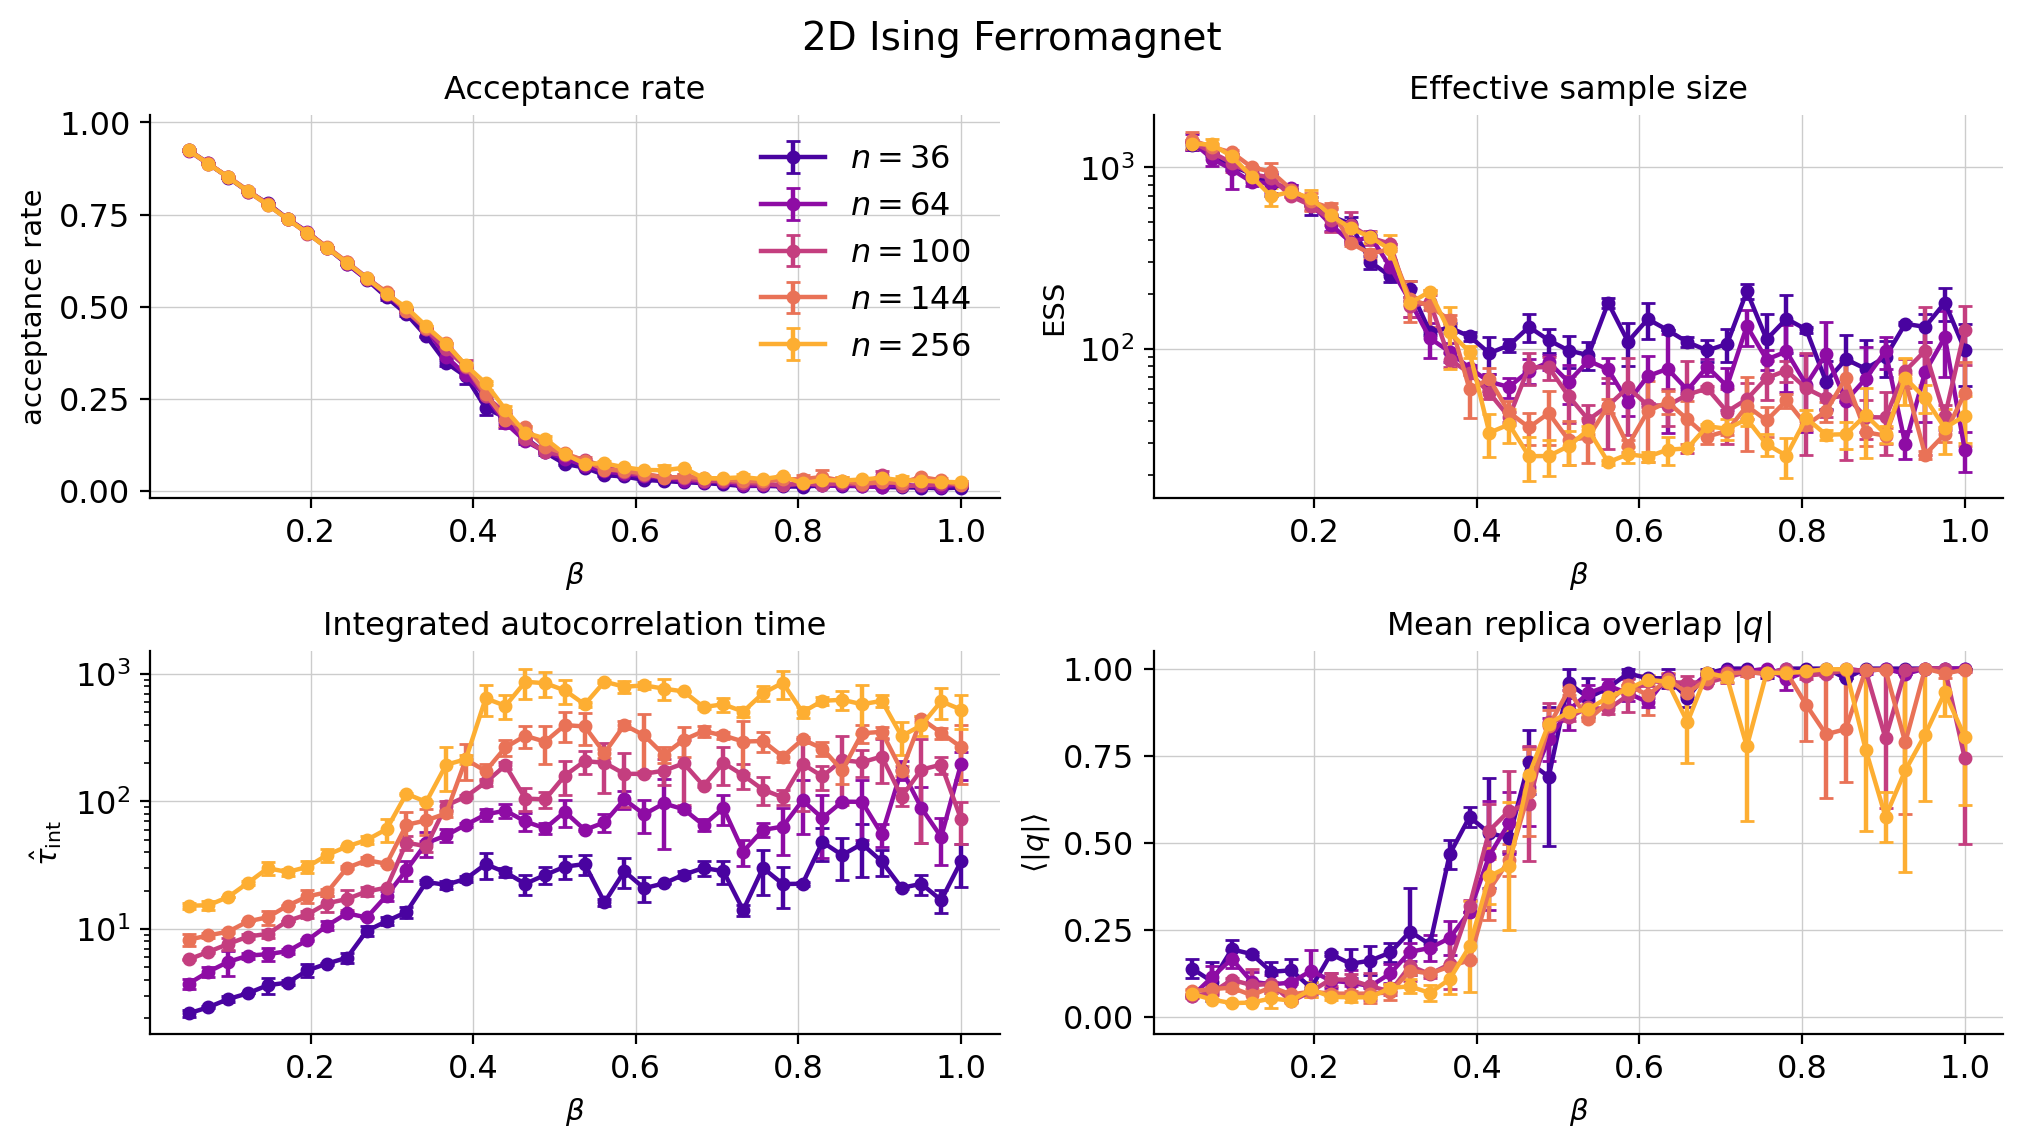
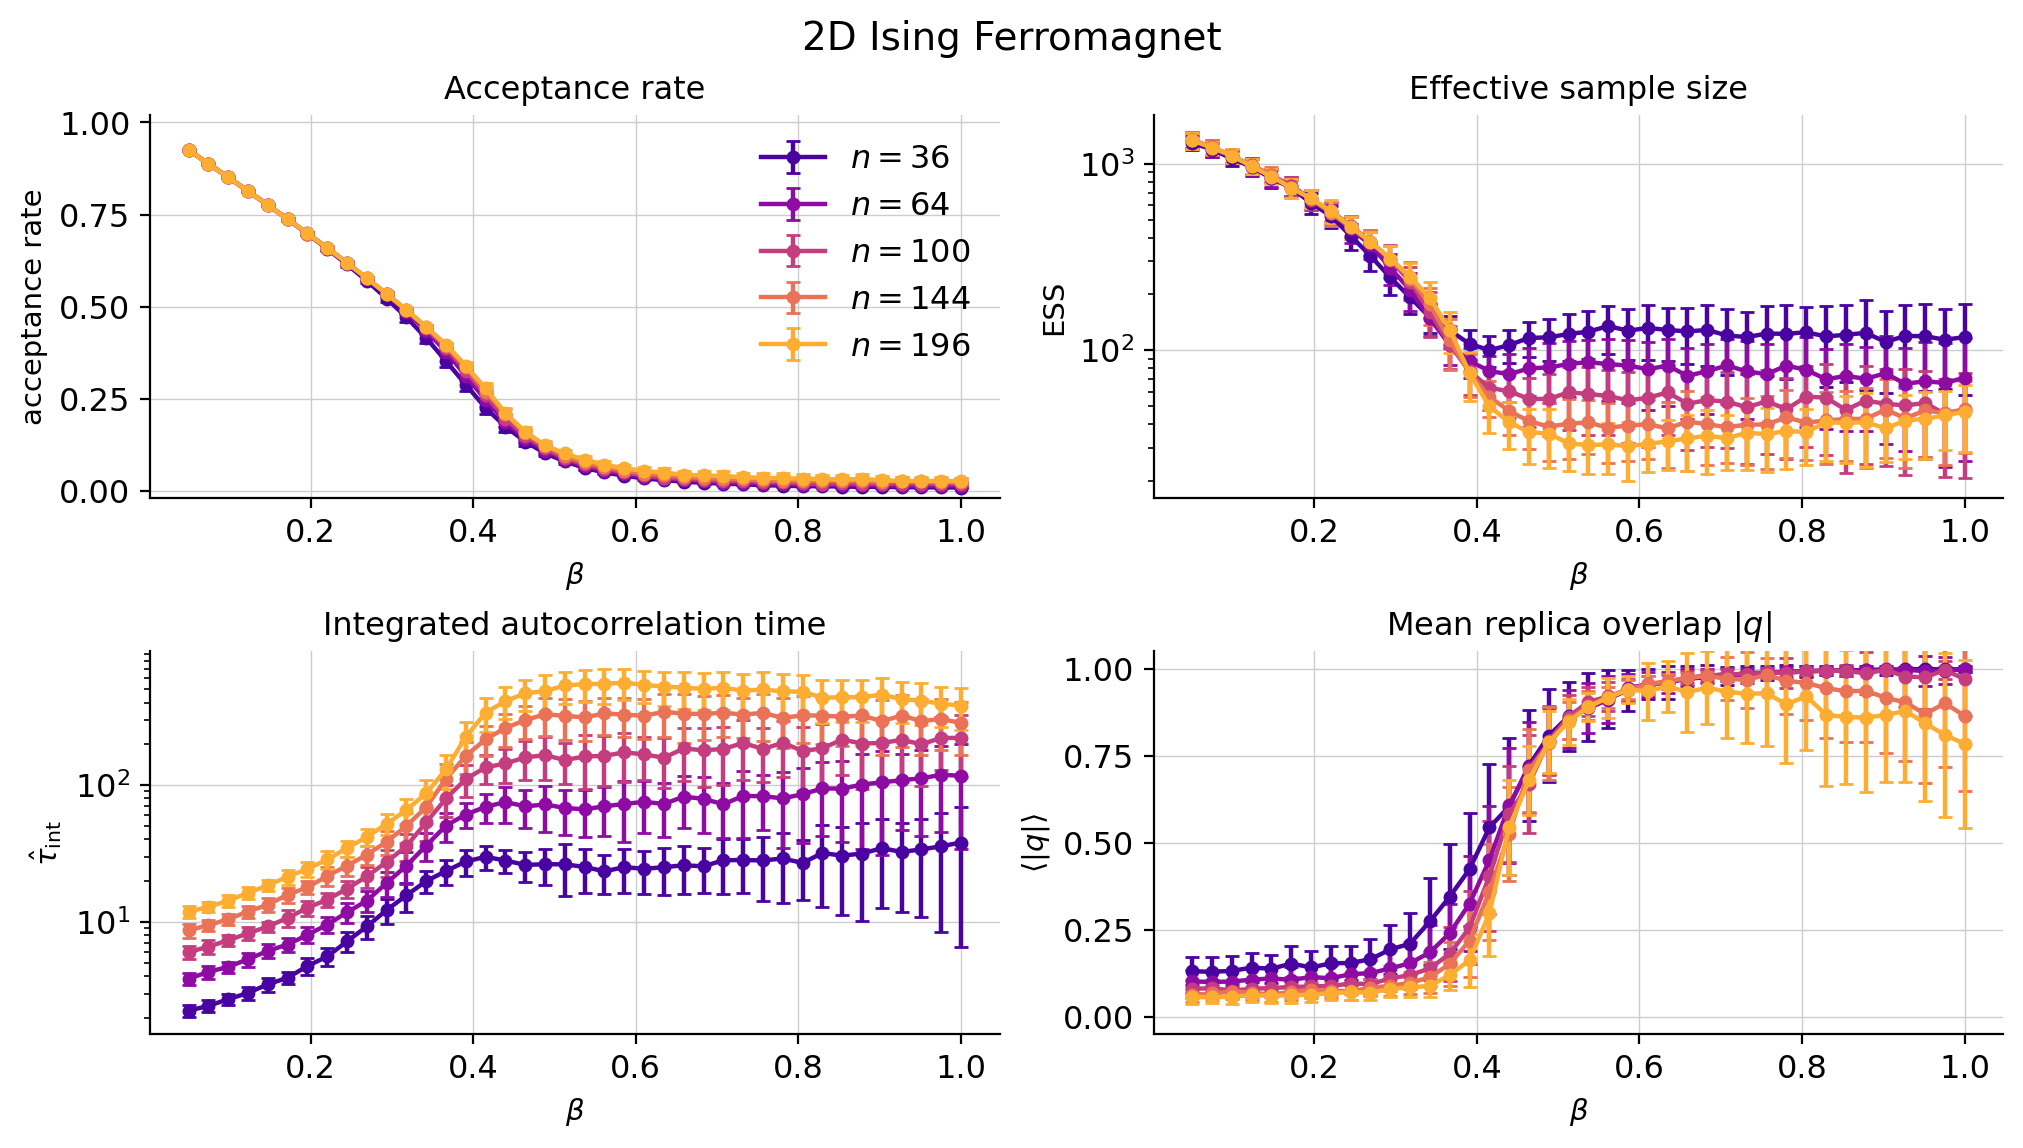
Trim preliminary scaling max size to L=14

diff --git a/preliminary_analysis.py b/preliminary_analysis.py
@@ -34,7 +34,7 @@ D = 100
 N_BETAS = 40
 
 BETAS = np.round(np.linspace(0.05, 1.00, N_BETAS), 4).tolist()
-SIZES = [6, 8, 10, 12, 16]
+SIZES = [6, 8, 10, 12, 14]
 MODEL_NAME = "2D Ising Ferromagnet"
 
 
